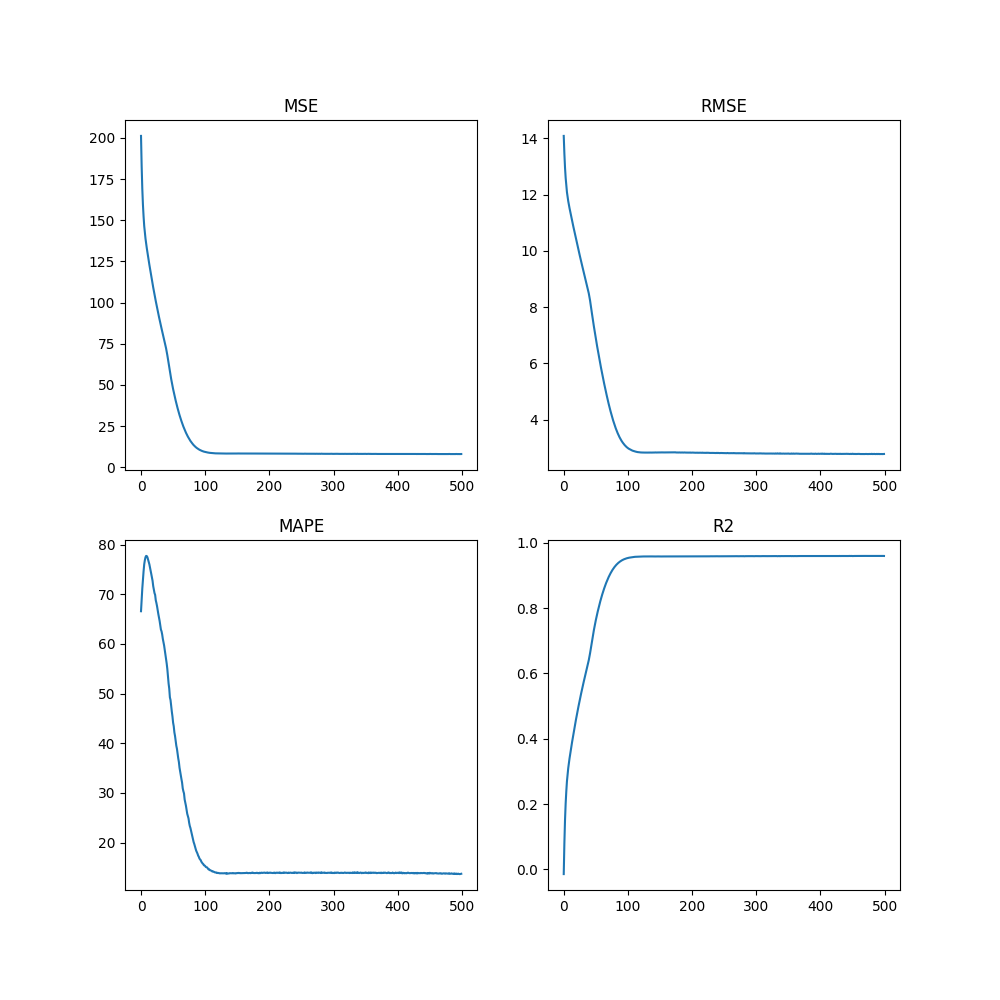
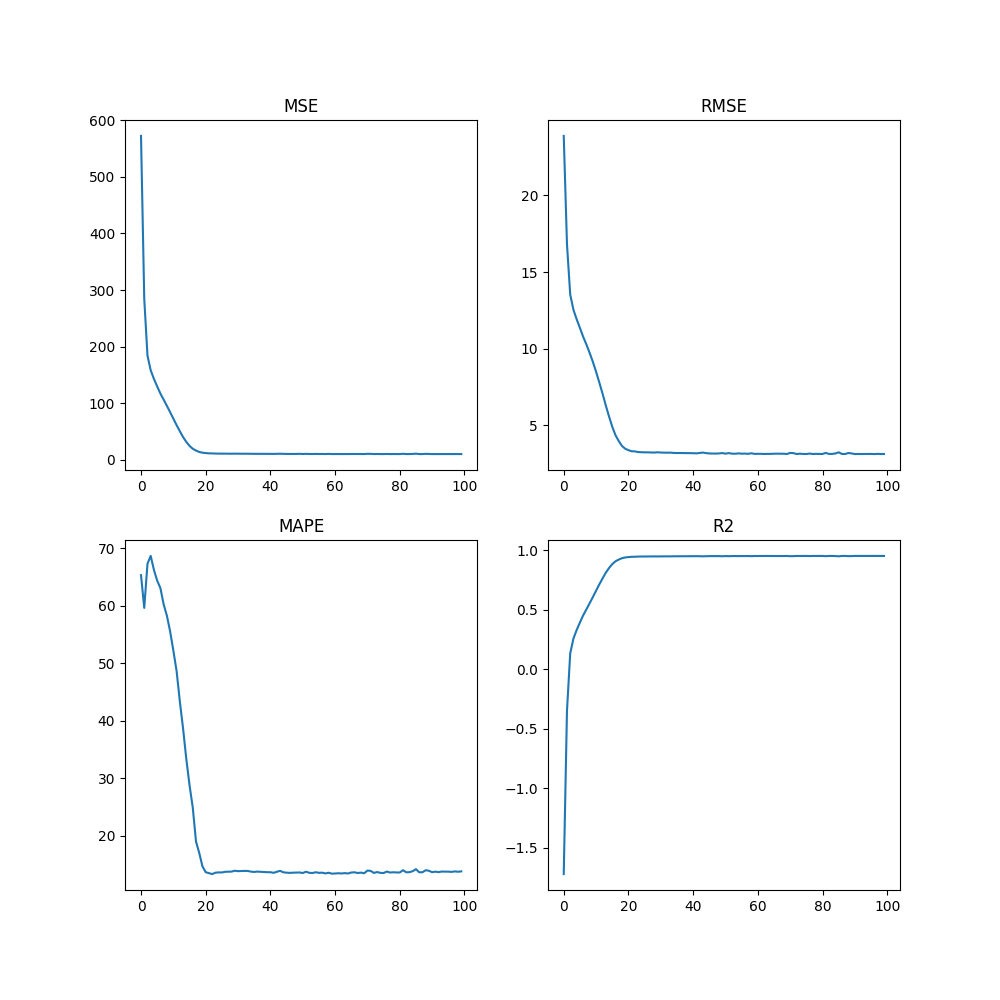
validation R2 plot

diff --git a/model.py b/model.py
@@ -1,3 +1,4 @@
+from cmath import exp
 import torch
 import torch.nn as nn
 import torch.utils.data as data_utils
@@ -5,92 +6,31 @@ import pdb
 import pandas as pd
 import numpy as np
 import matplotlib.pyplot as plt
-from sklearn.model_selection import train_test_split
-from sklearn.preprocessing import MinMaxScaler
+import random
+import joblib
 
-from loss_funcs import mse_loss_func, rmse_loss_func, mape_loss_func, r2_loss_func
+from util_funcs import mse_loss_func, rmse_loss_func, mape_loss_func, r2_loss_func
+from util_funcs import validate
+from network import ANN_model
+from get_train_test import train_test_loader
 
-data_file = 'Data4Dipesh/Ash/Ash_Front_Clean.csv'
-df = pd.read_csv(data_file)
-df = df.drop(columns=['Unnamed: 0'])
+torch.use_deterministic_algorithms(True)
+seed_val = 0
+torch.manual_seed(seed_val)
+np.random.seed(seed_val)
+random.seed(seed_val)
 
-L_after = df[df.columns[7]]
-L_before = df[df.columns[4]]
-a_after = df[df.columns[8]]
-a_before = df[df.columns[5]]
-b_after = df[df.columns[9]]
-b_before = df[df.columns[6]]
+learning_rate = 1e-3
+num_epochs = 100
 
-# pdb.set_trace()
-X = df[df.columns[1:7]]
-X = X.drop(columns=['Point_No'])
-
-Y = np.sqrt((L_after-L_before)**2 + (a_after-a_before)**2 + (b_after-b_before)**2)
-
-x_train, x_test, y_train, y_test = train_test_split(X, Y,  test_size=0.2)
-
-sc = MinMaxScaler()
-sct = MinMaxScaler()
-
-# pdb.set_trace()
-
-x_train=sc.fit_transform(x_train)
-y_train =sct.fit_transform(y_train.values.reshape(-1,1))
-x_test = sc.transform(x_test)
-y_test = sct.transform(y_test.values.reshape(-1,1))
-
-train_set = data_utils.TensorDataset(torch.from_numpy(x_train), torch.from_numpy(y_train))
-train_loader = data_utils.DataLoader(train_set, batch_size=32, shuffle=True)
-# train_set = data_utils.TensorDataset(torch.from_numpy(x_train.values), torch.from_numpy(y_train.values))
-
-test_set = data_utils.TensorDataset(torch.from_numpy(x_test), torch.from_numpy(y_test))
-test_loader = data_utils.DataLoader(test_set, batch_size=32, shuffle=False)
-
-
-
-class ANN_model(torch.nn.Module):
-    def __init__(self):
-        super(ANN_model, self).__init__()
-        self.linear1 = torch.nn.Linear(5, 10)  
-        # self.linear2 = torch.nn.Linear(15, 10)  
-        self.linear2 = torch.nn.Linear(10, 1)  
-
-    def forward(self, x):
-        x = self.linear1(x)
-        # x = torch.rel(x)
-        x = torch.relu(x)
-        x = self.linear2(x)
-        # x = torch.relu(x)
-        # x = self.linear3(x)
-        return x
-        
-
+exp_name = "Ash"
+train_loader, test_loader, [sc, sct] = train_test_loader(exp_name)
 model = ANN_model()
 
-learning_rate = 0.0001
 l = nn.MSELoss()
 optimizer = torch.optim.Adam(model.parameters(), lr =learning_rate )
 
 mse_l , rmse_l, mape_l, r2_l = [], [], [], []
-
-num_epochs = 500
-
-def validate():
-    mse_l , rmse_l, mape_l, r2_l = 0, 0,0,0
-    with torch.no_grad():
-        for i, (x, y) in enumerate(test_loader):
-            x = x.float()
-            y_pred = model(x.float())
-            # loss += l(y_pred, y.to(torch.float32))
-            y_pred = sct.inverse_transform(y_pred.detach().numpy())
-            y = sct.inverse_transform(y.detach().numpy())
-            mse_l += mse_loss_func(torch.tensor(y_pred), torch.tensor(y).to(torch.float32))
-            rmse_l += rmse_loss_func(torch.tensor(y_pred), torch.tensor(y).to(torch.float32))
-            mape_l += mape_loss_func(torch.tensor(y_pred), torch.tensor(y).to(torch.float32))
-            r2_l += r2_loss_func(torch.tensor(y_pred), torch.tensor(y).to(torch.float32))
-
-    return mse_l/len(test_loader), rmse_l/len(test_loader), mape_l/len(test_loader), r2_l/len(test_loader)
-
 
 for epoch in range(num_epochs):
     for i, (x, y) in enumerate(train_loader):
@@ -104,7 +44,7 @@ for epoch in range(num_epochs):
         optimizer.step()
         if i % 100 == 0:
             print(f'Epoch: {epoch+1}, train loss: {loss.item()}')
-    all_loss = validate()
+    all_loss, gt, pred = validate(model, test_loader, sct)
     # print(f"test loss: {all_loss}")
     print(f"mse_l: {all_loss[0].item()}, rmse_l: {all_loss[1].item()}, mape_l: {all_loss[2].item()}, r2_l: {all_loss[3].item()}")
     mse_l.append(all_loss[0])
@@ -112,14 +52,9 @@ for epoch in range(num_epochs):
     mape_l.append(all_loss[2])
     r2_l.append(all_loss[3])
     
-
-    # print(f'Test loss: {loss.item()}')
-    # print(f'MSE: {torch.mean(torch.stack(mse_l)).item()}')
-    # print(f'RMSE: {torch.mean(torch.stack(rmse_l)).item()}')
-    # print(f'MAPE: {torch.mean(torch.stack(mape_l)).item()}')
-    # print(f'R2: {torch.mean(torch.stack(r2_l)).item()}')
-
-# plot all the loss functions in one graph
+torch.save(model.state_dict(), f"{exp_name}_model.pt")
+joblib.dump(sc, "scaler_train.save") 
+joblib.dump(sct, "scaler_test.save") 
 
 # plot 4 plots in one graph
 fig, ax = plt.subplots(2, 2, figsize=(10,10))
@@ -134,9 +69,3 @@ ax[1, 1].set_title('R2')
 plt.savefig('loss_func.png')
 # plt.show()
 
-
-# plt.plot(mse_l, label='MSE')
-# plt.plot(rmse_l, label='RMSE')
-# plt.plot(mape_l, label='MAPE')
-# plt.plot(r2_l, label='R2')
-# plt.legend()

diff --git a/get_train_test.py b/get_train_test.py
@@ -1,0 +1,48 @@
+import numpy as np
+import pandas as pd
+from sklearn.model_selection import train_test_split
+from sklearn.preprocessing import MinMaxScaler
+import torch.utils.data as data_utils
+import torch 
+
+
+def train_test_loader(exp_name, batch_size=32):
+
+    data_file = f'Data4Dipesh/{exp_name}/{exp_name}_Front_Clean.csv'
+    df = pd.read_csv(data_file)
+    df = df.drop(columns=['Unnamed: 0'])
+
+    L_after = df[df.columns[7]]
+    L_before = df[df.columns[4]]
+    a_after = df[df.columns[8]]
+    a_before = df[df.columns[5]]
+    b_after = df[df.columns[9]]
+    b_before = df[df.columns[6]]
+
+    # pdb.set_trace()
+    X = df[df.columns[1:7]]
+    X = X.drop(columns=['Point_No'])
+
+    Y = np.sqrt((L_after-L_before)**2 + (a_after-a_before)**2 + (b_after-b_before)**2)
+
+    x_train, x_test, y_train, y_test = train_test_split(X, Y,  test_size=0.2)
+
+    sc = MinMaxScaler()
+    sct = MinMaxScaler()
+
+    x_train=sc.fit_transform(x_train)
+    y_train =sct.fit_transform(y_train.values.reshape(-1,1))
+    x_test = sc.transform(x_test)
+    y_test = sct.transform(y_test.values.reshape(-1,1))
+
+    train_set = data_utils.TensorDataset(torch.from_numpy(x_train), torch.from_numpy(y_train))
+    train_loader = data_utils.DataLoader(train_set, batch_size=batch_size, shuffle=True)
+
+    test_set = data_utils.TensorDataset(torch.from_numpy(x_test), torch.from_numpy(y_test))
+    test_loader = data_utils.DataLoader(test_set, batch_size=batch_size, shuffle=False)
+
+    return train_loader, test_loader, [sc, sct]
+
+if "__main__" == __name__:
+    exp_name = "Ash"
+    train_loader, test_loader, [sc, sct] = train_test_loader(exp_name)

diff --git a/util_funcs.py b/util_funcs.py
@@ -1,0 +1,43 @@
+import torch
+import itertools
+# testing
+
+def mse_loss_func(y_pred, y):
+    return torch.mean((y_pred-y)**2)
+
+# root mean squared error
+def rmse_loss_func(y_pred, y):
+    return torch.sqrt(torch.mean((y_pred-y)**2))
+
+# mean absolute percentage error
+def mape_loss_func(y_pred, y):
+    return torch.mean(torch.abs(y_pred-y)/y)*100
+
+# r^2 score
+def r2_loss_func(y_pred, y):
+    return 1 - torch.mean((y_pred-y)**2)/torch.var(y)
+
+
+
+def validate(model, test_loader, sct):
+    gt, pred = [], []
+    mse_l , rmse_l, mape_l, r2_l = 0, 0,0,0
+    with torch.no_grad():
+        for i, (x, y) in enumerate(test_loader):
+            x = x.float()
+            y_pred = model(x.float())
+            # loss += l(y_pred, y.to(torch.float32))
+            y_pred = sct.inverse_transform(y_pred.detach().numpy())
+            y = sct.inverse_transform(y.detach().numpy())
+            gt.append(y)
+            pred.append(y_pred)
+            mse_l += mse_loss_func(torch.tensor(y_pred), torch.tensor(y).to(torch.float32))
+            rmse_l += rmse_loss_func(torch.tensor(y_pred), torch.tensor(y).to(torch.float32))
+            mape_l += mape_loss_func(torch.tensor(y_pred), torch.tensor(y).to(torch.float32))
+            r2_l += r2_loss_func(torch.tensor(y_pred), torch.tensor(y).to(torch.float32))
+
+    
+    gt = [i.item() for i in list(itertools.chain(*gt))]
+    pred = [i.item() for i in list(itertools.chain(*pred))]
+    all_losses = [mse_l/len(test_loader), rmse_l/len(test_loader), mape_l/len(test_loader), r2_l/len(test_loader)]
+    return all_losses, gt, pred

diff --git a/inference.py b/inference.py
@@ -1,0 +1,47 @@
+from cProfile import label
+import pdb
+import numpy as np
+import torch
+import torch.nn as nn
+import torch.nn.functional as F
+from network import ANN_model
+from util_funcs import validate
+from get_train_test import train_test_loader
+from scipy import stats
+import matplotlib.pyplot as plt
+
+
+exp_name = "Ash"
+train_loader, test_loader, [sc, sct] = train_test_loader(exp_name)
+
+model = ANN_model()
+model.load_state_dict(torch.load("ash_model.pt"))
+model.eval()
+
+# test_losses, gt, pred = validate(model, test_loader, sct)
+train_losses, gt, pred = validate(model, train_loader, sct)
+
+mse_l=train_losses[0].item()
+rmse_l=train_losses[1].item()
+mape_l=train_losses[2].item()
+r2=train_losses[3].item()
+
+
+slope, intercept, r_value, p_value, std_err = stats.linregress(gt,pred)
+
+# plt plot a line with slpe and intercept   
+x = np.linspace(0, 60, 10000)
+y = slope*x + intercept
+
+fig = plt.figure(figsize=(6,6))
+
+plt.plot(x, y, 'r', label='Regression Line',color=[172.0/255, 77/255.0, 47/255.0])
+plt.plot(x, x, 'black', linestyle='dashed', label='Prediction = GroundTruth')
+plt.scatter(gt, pred, label='data', facecolors='none', edgecolors='black')
+plt.xlabel('Ground Truth')
+plt.ylabel(f'Prediction = {slope:.2f}*GroundTruth + {intercept:.2f}')
+plt.title(f'Training data | R2: {r2:.4f}')
+plt.legend(edgecolor='black', framealpha=1)
+plt.savefig(f'{exp_name}_training_regression.png')   
+
+# pdb.set_trace()

diff --git a/network.py b/network.py
@@ -1,0 +1,27 @@
+import torch
+import torch.nn as nn
+import torch.nn.functional as F
+
+class ANN_model(torch.nn.Module):
+    def __init__(self):
+        super(ANN_model, self).__init__()
+        self.linear1 = torch.nn.Linear(5, 10)  
+        # self.linear2 = torch.nn.Linear(15, 10)  
+        self.linear2 = torch.nn.Linear(10, 1)  
+
+    def forward(self, x):
+        x = self.linear1(x)
+        # x = torch.rel(x)
+        x = torch.relu(x)
+        x = self.linear2(x)
+        # x = torch.relu(x)
+        # x = self.linear3(x)
+        return x
+        
+if "__main__" == __name__:
+    model = ANN_model()
+    print(model)
+    input = torch.FloatTensor(10, 5)
+    model.load_state_dict(torch.load("ash_model.pt"))
+    model.eval()
+    print(model(input).shape)    
